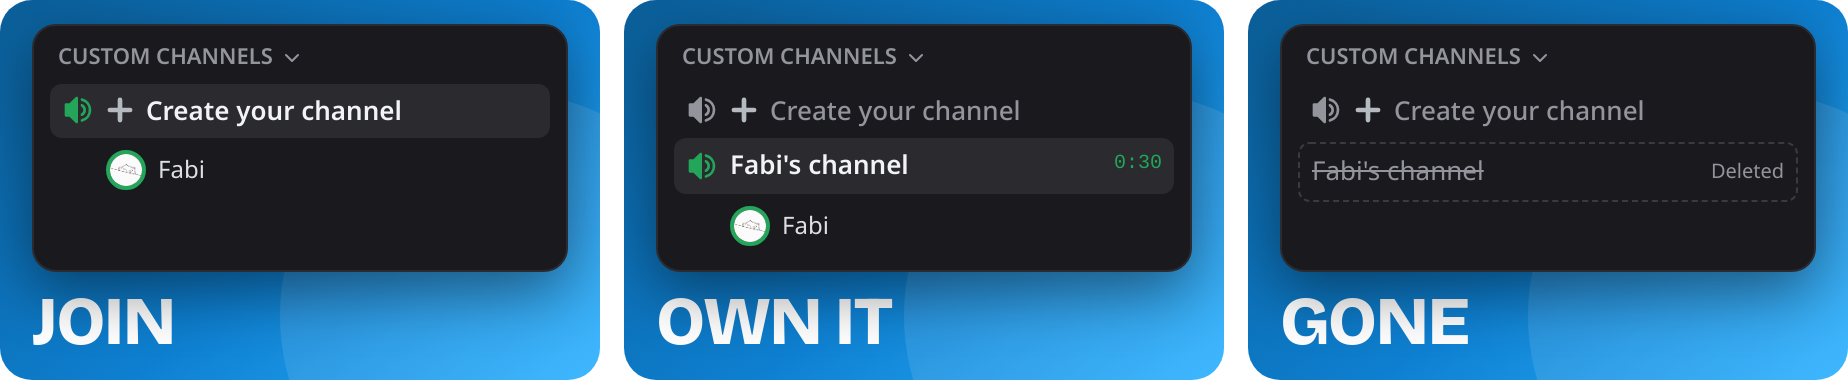
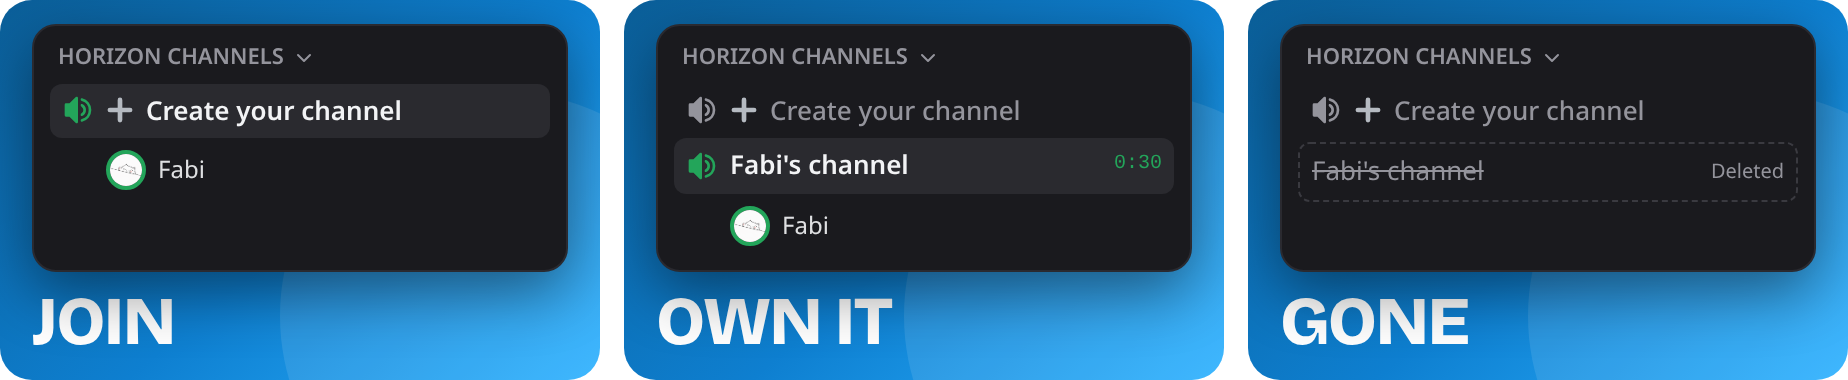
Rename the default category to Horizon Channels

Changed region(s): [[0.3701, 0.1158, 0.5244, 0.1737], [0.0308, 0.1158, 0.1851, 0.1737], [0.7094, 0.1158, 0.8328, 0.1737]]

diff --git a/src/app/welcome-cards/page.tsx b/src/app/welcome-cards/page.tsx
@@ -83,7 +83,7 @@ function SetupDoneScene() {
   return (
     <Scene className="bottom-[54px] left-4 right-4 top-3 bg-dc-bg px-2 pt-2 text-[13px]">
       <p className="flex items-center gap-1 px-1 pb-1 text-[11px] font-semibold uppercase text-dc-muted">
-        Custom Channels
+        Horizon Channels
         <ChevronDown className="size-3" />
       </p>
       <div className="flex items-center gap-1.5 rounded-md px-1.5 py-1 text-dc-muted">
@@ -136,7 +136,7 @@ function ChannelScene({ stage }: { stage: number }) {
   return (
     <Scene className="bottom-[54px] left-4 right-4 top-3 bg-dc-bg px-2 pt-2 text-[13px]">
       <p className="flex items-center gap-1 px-1 pb-1 text-[11px] font-semibold uppercase text-dc-muted">
-        Custom Channels
+        Horizon Channels
         <ChevronDown className="size-3" />
       </p>
       <VoiceRow name="Create your channel" generator active={stage === 0} />

diff --git a/src/components/discord-mock/ChannelListMock.tsx b/src/components/discord-mock/ChannelListMock.tsx
@@ -29,7 +29,7 @@ export type ChannelListMockText = {
 };
 
 const DEFAULT_MOCK: ChannelListMockText = {
-  category: "Custom Channels",
+  category: "Horizon Channels",
   lounge: "General",
   joinToCreate: "Create your channel",
   channel: "Fabi's channel",
